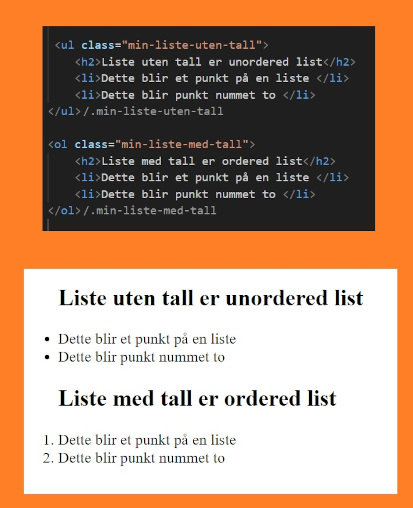
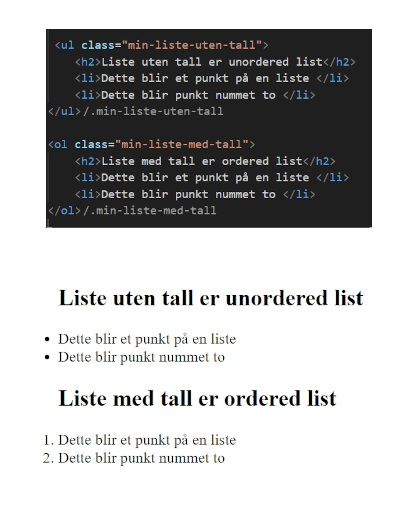
Første html nærmer seg

Changed region(s): [[0.0, 0.0, 1.0, 1.0]]

diff --git a/CSS/html-big.css b/CSS/html-big.css
@@ -1,16 +1,19 @@
+ 
 
-
-#background
 
 /******************************\
      Grid første seksjon
 \******************************/
+
 :root{ 
   --bakgrunnsfarge-text-bilde-bakgrunn: #ABDEE6;
   --bakgrunnsfarge-text-bilde-bakgrunn2: #E6B3AB;
   --textfarge-til-bakgrunnsfargen:black;
   --text-bakgrunnsfarge-til-kode-text:#ddd;
+  font-size: 20px;
+ 
 }
+
 section#section1-grid{
     display: grid;
     grid-template-rows:1fr 1fr 5rem 250px;
@@ -46,7 +49,8 @@ z-index:2;}
 
   .tekst-og-bildeboks{
     background-color: aqua;
-    background-color: var(--bakgrunnsfarge-text-bilde-bakgrunn);
+    background-color: var( --bakgrunnsfarge-text-bilde-bakgrunn);
+    
     
     z-index: 1;
   
@@ -63,7 +67,7 @@ z-index:2;}
 
   .text{
     z-index: 2;
-    padding-left:1.5rem;
+    padding: 0 1.5rem;
     
   }
 
@@ -191,7 +195,7 @@ z-index:2;}
   \******************************/
   section#section2-grid{
     margin-top:5rem;
-    display: grid;|
+    display: grid;
     grid-template-rows: repeat(5,1fr) ;
     /*grid-template-columns: repeat(auto-fit,minmax(200px,1fr));*/
     grid-template-columns: repeat(7,minmax(50px,1fr));

diff --git a/Undersider_Fase3/html.html b/Undersider_Fase3/html.html
@@ -259,7 +259,7 @@ HTML dokumenter bruker tag-ger. Det heter tag på engelsk, som «merkelapp/merke
     
     
         <figure id="bilde4" class="bilde-bokser"><img
-                src="../Bilder\Runars bildekilde\Hjemmelaget.jpg" alt="">
+                src="../Bilder\Runars bildekilde\Hjemmelaget.png" alt="">
                 
         </figure>
     
